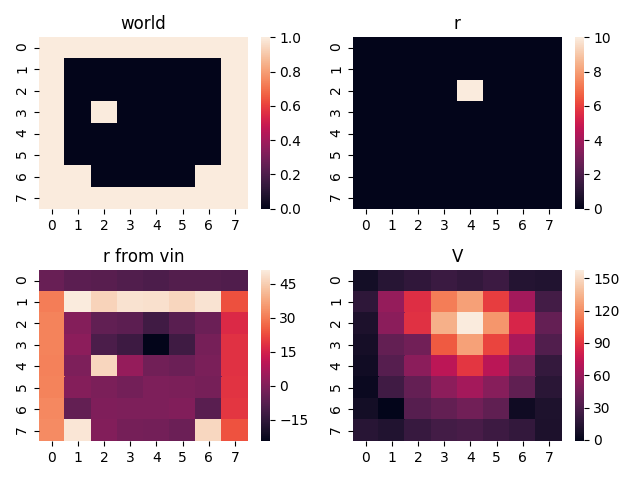
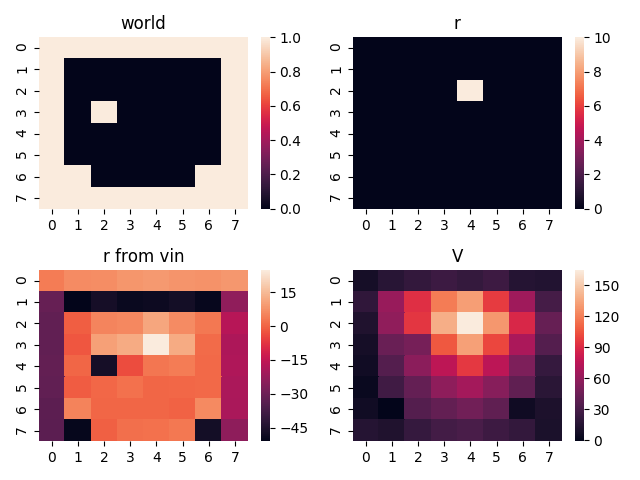
removed weights init seems to work better

diff --git a/core/model.py b/core/model.py
@@ -25,11 +25,16 @@ def attention(x):
 class q(nn.Module):
     def __init__(self, q_ch):
         super().__init__()
-        self.w_from_i2q = nn.Parameter(
-            nn.init.xavier_uniform_(torch.empty(q_ch, 1, 3, 3)))
+        # self.w_from_i2q = nn.Parameter(
+        #     nn.init.xavier_uniform_(torch.empty(q_ch, 1, 3, 3)))
+        #
+        # self.w_from_v2q = nn.Parameter(
+        #     nn.init.xavier_uniform_(torch.empty(q_ch, 1, 3, 3)))
 
-        self.w_from_v2q = nn.Parameter(
-            nn.init.xavier_uniform_(torch.empty(q_ch, 1, 3, 3)))
+        self.w_from_i2q = nn.Parameter(torch.zeros(q_ch, 1, 3, 3))
+
+        self.w_from_v2q = nn.Parameter(torch.zeros(q_ch, 1, 3, 3))
+
 
     def forward(self, x):
         if x.shape[1] == 1:
@@ -75,13 +80,11 @@ class VIN(nn.Module):
                             out_features=n_act,
                             bias=False)
 
-        self.apply(weights_init)
+        # self.apply(weights_init)
 
-
-    def forward(self, x, k, store=False):
+    def forward(self, x, k):
         s1, s2, obs = x
         self.values = []
-
         r_img = self.h(obs)
 
         r = self.r(r_img)
@@ -89,7 +92,6 @@ class VIN(nn.Module):
 
         for _ in range(k + 1): # include last iteration
             v, _ = torch.max(q, 1)
-            self.values.append(v[0].detach().squeeze().cpu().numpy())
             v = v.unsqueeze(1)
             q = self.q(torch.cat([r,v], 1))
 

diff --git a/core/train.py b/core/train.py
@@ -36,7 +36,7 @@ k_zoo = {
 TRAIN = True
 EPOCHES = 30
 
-world = WORLD_16X16
+world = WORLD_8X8
 
 world_name, _ = path.splitext(path.basename(world[0]))
 save_path = 'model-{}.pt'.format(world_name)
@@ -128,9 +128,12 @@ if TRAIN:
                             'test_acc': test_acc})
     df.to_csv('./{}/test.csv'.format(world_name))
 
-labels, s1, s2, obs = get_random_data(test_ds, device, idx=0)
 
-_, v, r_img = vin((s1, s2, obs), k)
+vin = torch.load(save_path)
+
+labels, s1, s2, obs = get_random_data(test_ds, device, idx=1)
+
+_, v, r_img = vin((s1, s2, obs), 10)
 
 os.makedirs('./' + world_name, exist_ok=True)
 

diff --git a/core/utils.py b/core/utils.py
@@ -28,7 +28,7 @@ def make_images(obs, r_img, v):
     torch_imshow(obs[0][1].squeeze(), 'r')
 
     plt.subplot(2, 2, 3)
-    torch_imshow(r_img[0].squeeze(), 'r from vin')
+    torch_imshow(-r_img[0].squeeze(), 'r from vin')
 
     plt.subplot(2, 2, 4)
     torch_imshow(v[0], 'V')
